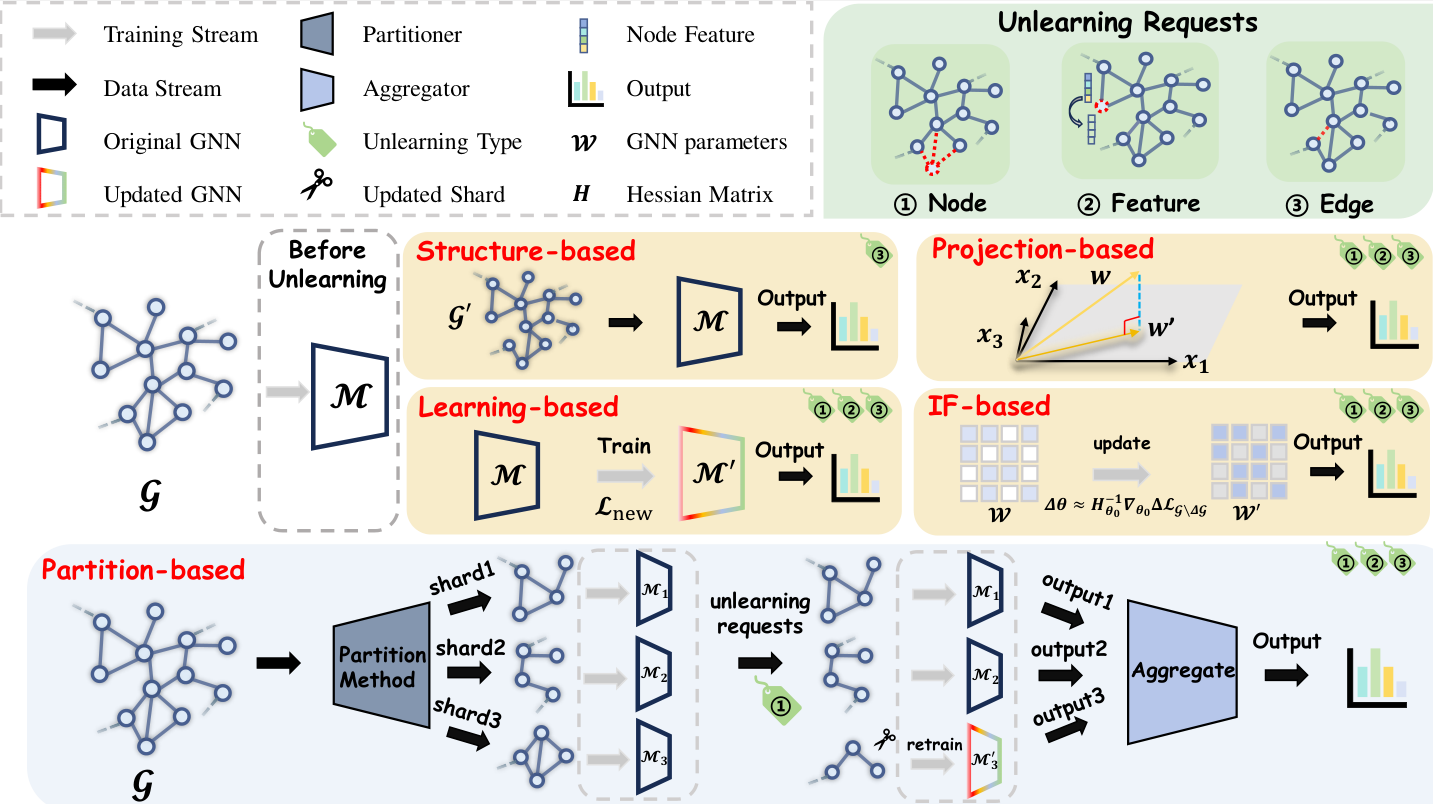
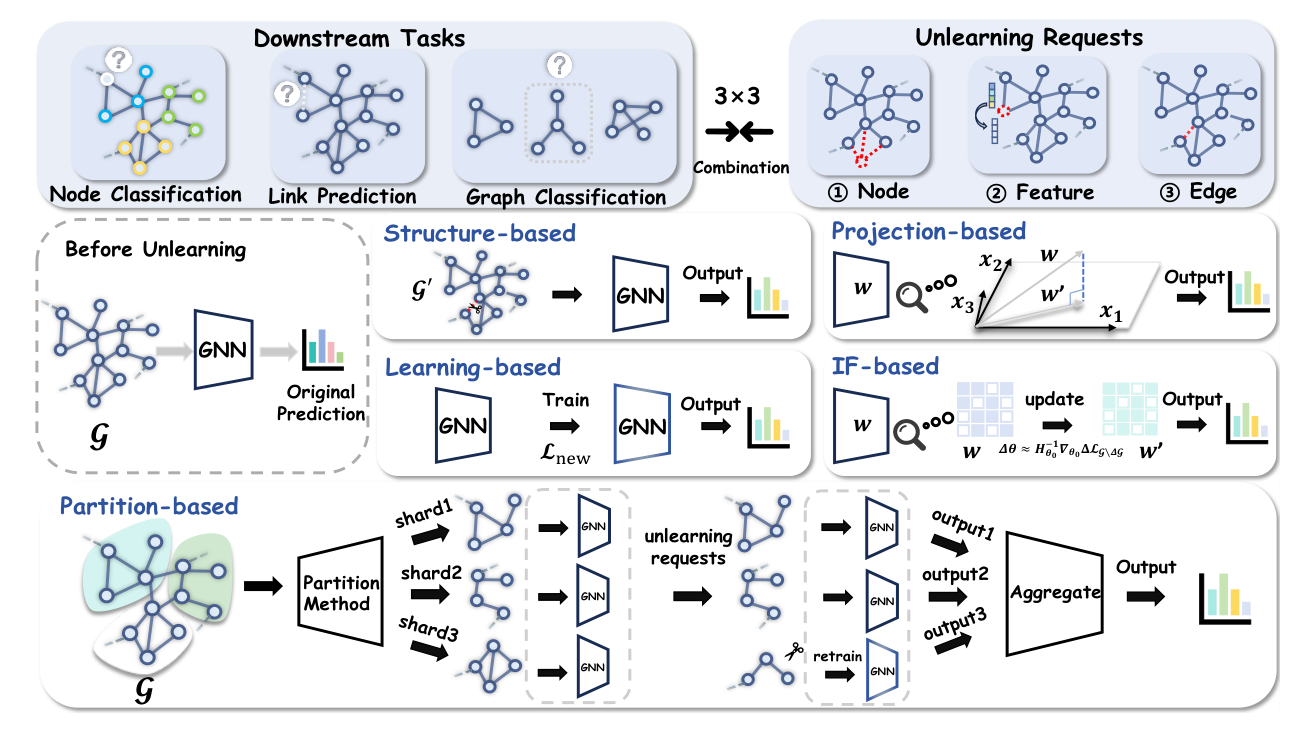
update README and index

diff --git a/README.md b/README.md
@@ -30,13 +30,12 @@
 
 ### Our Contributions
 
-To further streamline GU research and foster a more unified evaluation landscape, **OpenGU** offers the following key contributions:
+To advance Graph Unlearning (GU) research and establish a standardized evaluation framework, **OpenGU** provides the following key contributions:
 
-1. **16 SOTA GU algorithms**
-2. **37 popular multi-domain datasets**
-3. **13 GNN backbones**
-4. **code-level 3 \plus 3 cross-experiment configurations**
-5. **8 crucial conclusions**
+1. **Comprehensive Benchmark**: OpenGU integrates **16 SOTA GU algorithms** and **37 multi-domain datasets**, offering a unified framework to support flexible 3×3 combinations of unlearning requests and downstream tasks.
+2. **Analytical Insights**: Through extensive experiments, OpenGU evaluates GU methods across **effectiveness**, **efficiency**, and **robustness**, providing **8 key insights** that highlight existing limitations and guide future research.
+3. **Open-source Library**: OpenGU is designed as an open-source benchmark library with a unified API, detailed documentation, and user-friendly interfaces, fostering collaboration and innovation in the GU community.
+
 
 <div align="center">
   <img src="Resources/methods_overview.png" alt="Methods Overview" border="0" width=600px/>
@@ -58,49 +57,63 @@ Graph Unlearning (GU) scenarios are fundamentally data-driven, making the meticu
 
 ### Node and Edge-Level Tasks
 
-- **Citation Networks:** Cora, Citeseer, PubMed
-- **Co-author Networks:** CS, Physics
-- **Image Networks:** Flickr
-- **E-commerce and Product Networks:** Photo, Computers, ogbn-products, Amazon-ratings
-- **Scientific and Knowledge Networks:** DBLP, ogbn-arxiv
-- **Webpage Networks:** Squirrel, Chameleon
-- **Actor Networks:** Actor
-- **Online Gaming:** Minesweeper
-- **Crowdsourcing Platform:** Tolokers
-- **Historical and Social Q&A Contexts:** Roman-empire, Questions
+- **Citation Networks**: Cora, Citeseer, PubMed, DBLP, ogbn-arxiv
+- **Co-author Networks**: CS, Physics
+- **Co-purchasing Network**: Photo, Computers, ogbn-products
+- **Rating Networks**: Amazon-ratings
+- **Wiki-page Networks**: Squirrel, Chameleon
+- **Actor Networks**: Actor
+- **Game Synthetic Networks**: Minesweeper
+- **Crowdsourcing Networks**: Tolokers
+- **Article Syntax Networks**: Roman-empire
+- **Social Networks**: Questions
+- **Image Networks**: Flickr
 
 ### Graph Classification Tasks
 
-- **Compounds Networks:** MUTAG, PTC-MR, BZR, COX2, DHFR, AIDS, NCI1, ogbg-molhiv, ogbg-molpcba
-- **Protein Networks:** ENZYMES, DD, PROTEINS, ogbg-ppa
-- **Movie Networks:** IMDB-BINARY, IMDB-MULTI
-- **Collaboration Networks:** COLLAB
-- **3D Shapes and Image Superpixels:** ShapeNet, MNISTSuperPixels
+### Graph Classification Tasks
+
+- **Compounds Networks**: MUTAG, PTC-MR, BZR, COX2, DHFR, AIDS, NCI1, ogbg-molhiv, ogbg-molpcba
+- **Protein Networks**: ENZYMES, DD, PROTEINS, ogbg-ppa
+- **Movie Networks**: IMDB-BINARY, IMDB-MULTI
+- **Collaboration Networks**:  COLLAB
+- **Point Cloud Networks**: ShapeNet
+- **Super-pixel Networks**: MNISTSuperPixels
+
 
 #### Statistical Overview
-For detailed statistics on the datasets used in our evaluation, see the following files:
+For detailed statistics on the datasets used in our evaluation, see the following file:
 
-- [Node and Edge-Level Tasks Statistics](/Resources/graph_classification_stats.md)
-- [Graph Classification Tasks Statistics](/Resources/graph_classification_stats.md)
+- [Dataset Detailed Statistics](Resources/Dataset.png)
 
-#### Data Preprocessing Enhancements
 
-To achieve standardized and versatile partitioning in OpenGU, we implemented code that allows arbitrary dataset split ratios, enabling researchers to customize partitions to suit their needs and experiment requirements. In addition to flexible splitting, we also consider label balance within class distributions by providing both balanced and random partitioning options. Furthermore, we introduce preprocessing enhancements that allow datasets to function under both transductive and inductive inference scenarios, permitting evaluations under various settings and offering a broader assessment of algorithm performance.
+### Data Preprocessing Enhancements
+
+OpenGU introduces flexible preprocessing capabilities to support diverse experimental needs:
+
+1. **Custom Dataset Splitting**:
+   - Enables arbitrary dataset split ratios for tailored training and testing sets.
+   - Supports both balanced and random label distributions.
+
+2. **Inference Scenarios**:
+   - Allows datasets to operate under both **transductive** and **inductive** inference settings, enabling comprehensive evaluations.
 
 
 ## 🧠 Algorithm Framework
 
 ### GNN Backbones
 
-To evaluate the generalizability of GU algorithms, we incorporate three predominant paradigms of GNN models within our benchmark: **Traditional GNNs**, **Sampling GNNs**, and **Decoupled GNNs**. Each category encompasses a variety of state-of-the-art models, providing a comprehensive foundation for assessing Graph Unlearning methods.
+To evaluate the generalizability of GU algorithms, we incorporate three predominant paradigms of GNN models within our benchmark: **Traditional GNNs**, **Sampling GNNs**, and **Decoupled GNNs**. Each category encompasses a variety of state-of-the-art models, providing a comprehensive foundation for assessing Graph Unlearning methods. **In total, OpenGU integrates 13 GNN backbones.**
 
 | **Traditional GNNs** | **Sampling GNNs** | **Decoupled GNNs** |
 |----------------------|--------------------|---------------------|
 | 🔹 **GCN**           | 🔸 **GraphSAGE**   | 🔹 **SGC**          |
-| 🔹 **GAT**           | 🔸 **GraphSAINT**  | 🔹 **SSGC**         |
-| 🔹 **GCNII**         | 🔸 **ClusterGNN**  | 🔹 **SIGN**         |
-| 🔹 **GIN**           |                    | 🔹 **APPNP**        |
-| 🔹 **Others**        |                    |                     |
+| 🔹 **GCNII**         | 🔸 **GraphSAINT**  | 🔹 **SSGC**         |
+| 🔹 **LightGCN**      | 🔸 **ClusterGCN**  | 🔹 **SIGN**         |
+| 🔹 **GAT**           |                    | 🔹 **APPNP**        |
+| 🔹 **GATv2**         |                    |                     |
+| 🔹 **GIN**           |                    |                     |
+
 
 ### GU Algorithms
 
@@ -116,46 +129,28 @@ Our framework encompasses **16 state-of-the-art GU algorithms**, meticulously re
 |                     | 🔹 **ScaleGUN**  |                     |                     |
 
 
-
 ## 📊 Evaluation Strategy
 
-To thoroughly assess GU algorithms in real-world scenarios, our benchmark evaluation focuses on three key dimensions: **effectiveness**, **robustness**, and **efficiency**. Each dimension utilizes tailored evaluation methods aligned with OpenGU’s mission to provide a flexible and high-standard benchmark.
+OpenGU assesses **Graph Unlearning (GU)** algorithms across three key dimensions: **Effectiveness**, **Robustness**, and **Efficiency**.
 
 ### Cross-over Design
-
-Previous GU studies often separate node and edge unlearning, evaluating them through node classification and link prediction tasks, respectively. However, real-world applications may require simultaneous removal of nodes and edges within a single task. For example, removing edges between nodes during a node classification task combines edge and node unlearning. To address this, OpenGU includes cross-task evaluations, enabling the assessment of GU algorithms in complex scenarios where multiple unlearning types interact across diverse tasks. This ensures a comprehensive and practical evaluation framework.
+Real-world scenarios often require simultaneous removal of nodes and edges. OpenGU supports **cross-task evaluations**, enabling a comprehensive assessment when multiple unlearning types interact in diverse tasks.
 
 ### Effectiveness
-
-We evaluate **effectiveness** by assessing GU algorithms on key downstream tasks and their impact on **Non-UE** data.
-
-- **Node Classification:**
-  - **Metrics:** Accuracy, Precision, F1-score
-  - **Purpose:** Ensure that unlearning does not impair model performance on retained nodes.
-  
-- **Link Prediction:**
-  - **Metrics:** AUC-ROC
-  - **Purpose:** Verify that edge removal does not negatively affect overall predictive performance.
-  
-- **Security Attacks:**
-  - **Membership Inference Attack:** Measures if specific nodes were part of the training data. An AUC-ROC near 0.5 indicates minimal leakage.
-  - **Poisoning Attack:** Introduces malicious edges and then removes them. Improved link prediction post-removal shows effective unlearning.
-
-This approach evaluates both retained and unlearned information within OpenGU.
+- **Node Classification (Accuracy, Precision, F1)**: Ensures unlearning does not harm performance on retained nodes.  
+- **Link Prediction (AUC-ROC)**: Checks that removing edges does not degrade predictive accuracy.  
+- **Security Attacks**:  
+  - **MIA (AUC-ROC ~ 0.5)**: Confirms minimal information leakage on whether a node was in training.  
+  - **Poisoning Attack**: Improved link prediction after malicious edges are removed indicates successful unlearning.
 
 ### Robustness
-
-**Robustness** is assessed by testing GU algorithms under varying levels of data deletion. We examine how different proportions of data removal impact model performance. Robust GU algorithms should exhibit minimal performance loss as deletion intensity increases, demonstrating resilience in maintaining effective predictions for both retained and partially affected data.
+We test GU algorithms under **varying deletion intensities**, **noise**, and **sparsity**. Robust solutions should exhibit minimal performance drop when more data is removed or degraded.
 
 ### Efficiency
-
-We evaluate **efficiency** based on **scalability**, **time complexity**, and **space complexity**:
-
-- **Scalability:** Measures adaptability to different dataset sizes, ensuring stable performance across varying graph scales.
-- **Time Complexity:** Assesses computational demands through theoretical and empirical evaluations.
-- **Space Complexity:** Evaluates memory usage and storage requirements during unlearning, determining suitability for resource-constrained environments.
-
-These metrics collectively determine each method’s suitability for real-time and scalable deployment.
+Evaluated on **scalability**, **time complexity**, and **space complexity**:
+- **Scalability**: Performance consistency across different dataset sizes.  
+- **Time Complexity**: Computational cost analyzed both theoretically and empirically.  
+- **Space Complexity**: Memory usage and storage overhead during unlearning.
 
 
 ## <span id="installation">📥 Installation</span>
@@ -190,7 +185,7 @@ You can install OpenGU using one of the following methods:
 
 #### 1. **Using Pip**
 
-TODO: To install OpenGU directly from PyPI:
+To install OpenGU directly from PyPI:
 
 ```bash
 pip install opengu
@@ -198,7 +193,7 @@ pip install opengu
 
 #### 2. **Installing from GitHub for Local Development**
 
-TODO: To install OpenGU for local development, clone the GitHub repository and install it from the source:
+To install OpenGU for local development, clone the GitHub repository and install it from the source:
 
 1. **Clone the Repository**
 
@@ -249,6 +244,24 @@ Install the general dependencies listed in the `requirements.txt` file:
 ```bash
 pip install -r requirements.txt
 ```
+
+#### Additional Dependencies for Graph Libraries
+
+For `torch_scatter`, `torch_geometric`, and `torch_sparse`, if you encounter compilation issues, it's recommended to install the prebuilt wheels directly from the official PyTorch Geometric website. Below are installation examples based on the CUDA version:
+
+1. Visit the [PyTorch Geometric Installation Guide](https://pytorch-geometric.readthedocs.io/en/latest/notes/installation.html) to find the appropriate wheel links.
+
+2. Example installation for CUDA 12.1:
+
+   ```bash
+   pip install torch-scatter -f https://data.pyg.org/whl/torch-2.2.1+cu121.html
+   pip install torch-sparse -f https://data.pyg.org/whl/torch-2.2.1+cu121.html
+   pip install torch-geometric
+   ```
+
+3. If using a different CUDA version, replace `cu121` in the URL with your specific version (e.g., `cu118` for CUDA 11.8).
+
+*Make sure to check the compatibility matrix on the official PyTorch Geometric website for the correct version of `torch`, `torchvision`, and other libraries.*
 
 ### **Verify Installation**
 
@@ -337,11 +350,11 @@ Please ensure that your contributions adhere to the project's coding standards a
 If you use OpenGU in your research, please cite our paper:
 
 ```bibtex
-@article{your2024opengu,
-  title={OpenGU: An Open-Source Benchmark for Graph Unlearning},
-  author={Your Name and Co-author's Name},
+@article{fan2025opengu,
+  title={OpenGU: A Comprehensive Benchmark for Graph Unlearning},
+  author={Fan, Bowen and Ai, Yuming and Li, Xunkai and Guo, Zhilin and Li, Rong-Hua and Wang, Guoren},
   journal={arXiv preprint arXiv:XXXX.XXXXX},
-  year={2024}
+  year={2025}
 }
 ```
 

diff --git a/docs/index.rst b/docs/index.rst
@@ -97,6 +97,22 @@ Install the remaining dependencies from the `requirements.txt` file:
 
     pip install -r requirements.txt
 
+
+Additional Dependencies for Graph Libraries
+^^^^^^^^^^^^^^^^^^^^
+
+For `torch_scatter`, `torch_geometric`, and `torch_sparse`, if you encounter compilation issues, it's recommended to install the prebuilt wheels directly from the official PyTorch Geometric website. Below are installation examples based on the CUDA version:
+
+1. Visit the [PyTorch Geometric Installation Guide](https://pytorch-geometric.readthedocs.io/en/latest/notes/installation.html) to find the appropriate wheel links.
+
+2. Example installation for CUDA 12.1:
+
+   ```bash
+   pip install torch-scatter -f https://data.pyg.org/whl/torch-2.2.1+cu121.html
+   pip install torch-sparse -f https://data.pyg.org/whl/torch-2.2.1+cu121.html
+   pip install torch-geometric
+   ```
+
 Verify Installation
 ~~~~~~~~~~~~~~~~~~~~
 
@@ -115,12 +131,11 @@ If you use OpenGU in your research, please cite the following paper:
 
 .. code-block:: none
 
-    @inproceedings{openGU2024,
-        title={OpenGU: A Benchmark Platform for Graph Unlearning},
-        author={Your Name and Co-authors},
-        booktitle={Proceedings of the XYZ Conference},
-        year={2024},
-        organization={Conference Organization}
+    @article{fan2025opengu,
+    title={OpenGU: A Comprehensive Benchmark for Graph Unlearning},
+    author={Fan, Bowen and Ai, Yuming and Li, Xunkai and Guo, Zhilin and Li, Rong-Hua and Wang, Guoren},
+    journal={arXiv preprint arXiv:XXXX.XXXXX},
+    year={2025}
     }
 
 .. toctree::